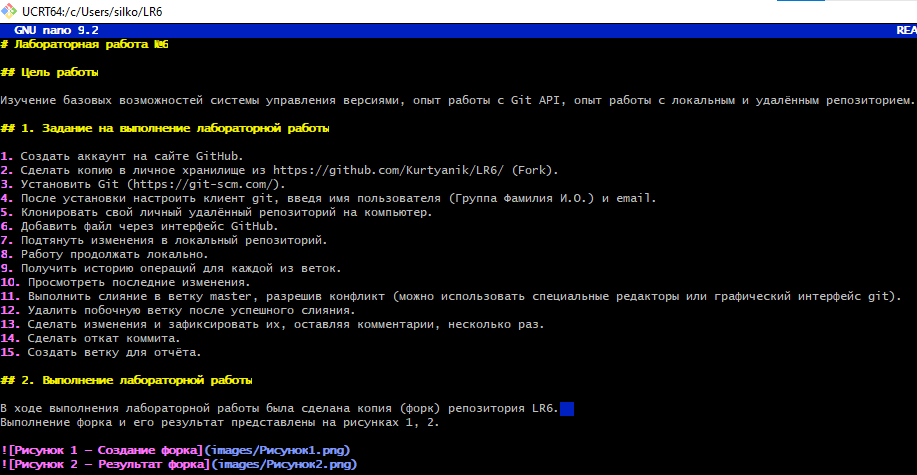
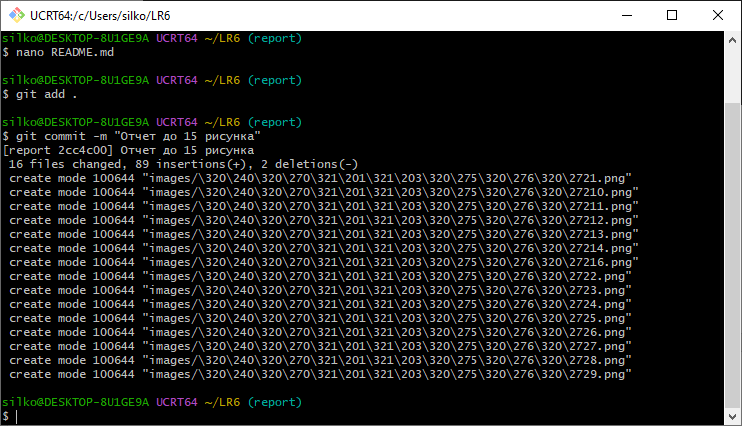
Финальный коммит

diff --git a/README.md b/README.md
@@ -87,8 +87,12 @@
 
 По ходу написания отчета, вносились изменения при помощи commit, как представлено на рисунке 16.
 
-![Hbceyjr 16 - Внесение изменений в отчет](images/Рисунок16.png)
+![Рисунок 16 - Внесение изменений в отчет](images/Рисунок16.png)
+
+Для получения истории операций в форматированном виде были использованы флаги –pretty=format и -date=short.
+Полученный форматированный вывод представлен на рисунке 17.
+
+![Рисунок 17 – Форматированная история изменений](images/Рисунок17.png)
 
 ## Выводы
 В ходе работы были изучены базовые возможности системы управления версиями: инициализация репозитория, коммиты, ветвление и слияние, просмотр истории. Отработаны навыки работы с локальным и удалённым репозиториями: клонирование, отправка и получение изменений, разрешение конфликтов. 
-
